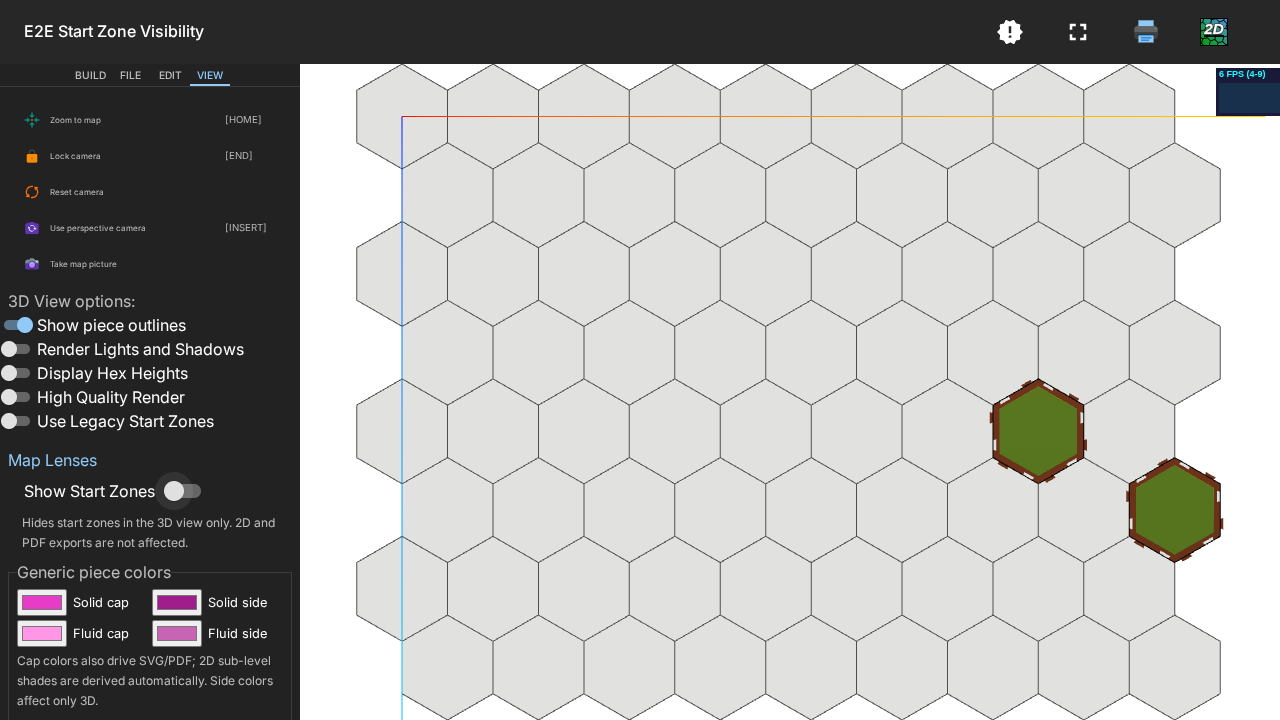
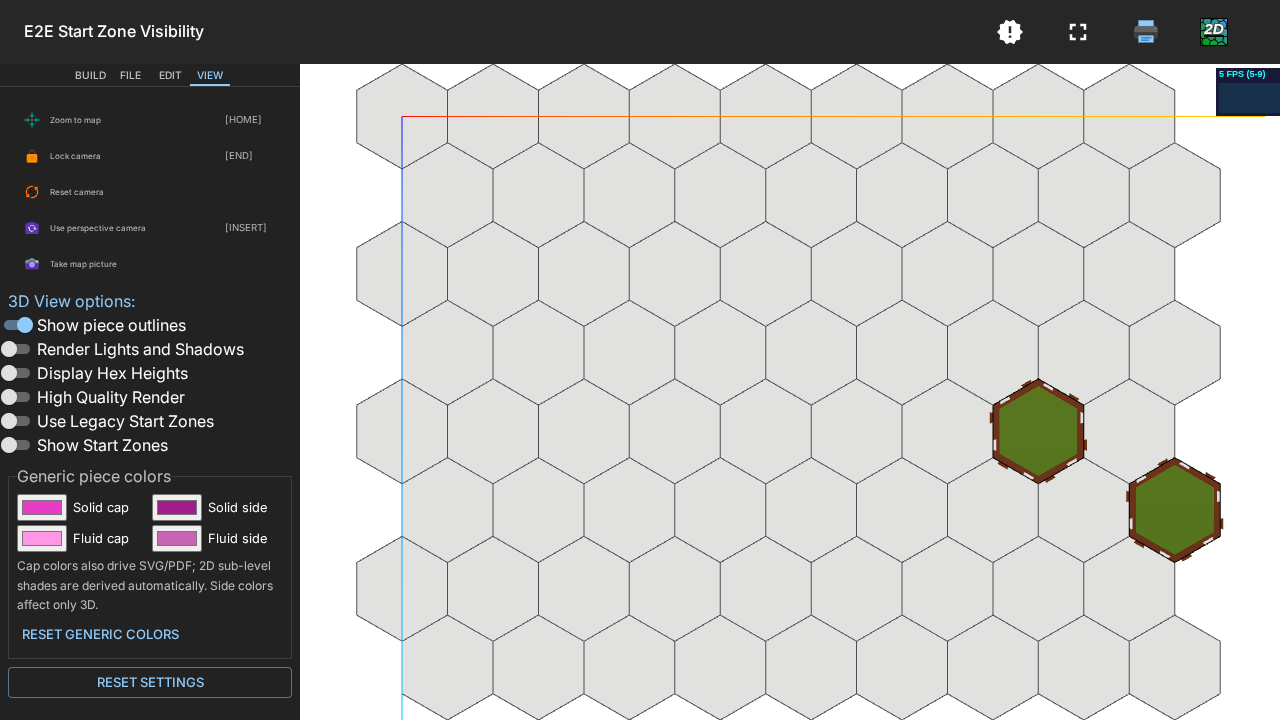
fix: keep start-zone visibility session-only

Changed region(s): [[0.0, 0.6111, 0.2188, 0.9778], [0.0, 0.3972, 0.0938, 0.4278]]

diff --git a/src/controls/ViewControlsTab.tsx b/src/controls/ViewControlsTab.tsx
@@ -36,7 +36,6 @@ import {
 import { getBoardHexesRectangularMapDimensions } from '../utils/map-utils'
 import { ControlTabsListItemButton } from './ControlTabsListItemButton'
 import { HotkeyText } from './HotKeyText'
-import MapLensToggles from './MapLensToggles'
 import { useHotkeyConfig } from './useHotkeyConfig'
 
 export default function ViewControlsTab({
@@ -193,12 +192,7 @@ export default function ViewControlsTab({
         </List>
       </div>
       <Box sx={{ display: 'flex', flexDirection: 'column', gap: 1 }}>
-        {is3DOpen && (
-          <>
-            <ViewPreferencesSwitchForm />
-            <MapLensToggles />
-          </>
-        )}
+        {is3DOpen && <ViewPreferencesSwitchForm />}
         {isPdfOpen && <PdfPreferencesSwitchForm />}
         {is2DOpen && <SVGPreferencesSwitchForm />}
         <GenericTerrainColorsForm />
@@ -337,11 +331,20 @@ const ViewPreferencesSwitchForm = () => {
   const toggleUseLegacyStartZones = useBoundStore(
     (s) => s.toggleUseLegacyStartZones,
   )
+  const isShowStartZones = useBoundStore((s) => s.isShowStartZones)
+  const toggleIsShowStartZones = useBoundStore((s) => s.toggleIsShowStartZones)
   const handleChangeUseLegacyStartZones = (
     event: React.ChangeEvent<HTMLInputElement>,
   ) => {
     toggleUseLegacyStartZones(event.target.checked)
   }
+  const handleChangeShowStartZones = (
+    event: React.ChangeEvent<HTMLInputElement>,
+  ) => {
+    toggleIsShowStartZones(event.target.checked)
+  }
+  const showStartZonesTooltip =
+    'Hides start zones in the 3D view only. 2D and PDF exports are not affected. Turns back on every time you open the app.'
   // const isFrameloopDemand = useBoundStore((s) => s.isFrameloopDemand)
   // const toggleIsFrameloopDemand = useBoundStore((s) => s.toggleIsFrameloopDemand)
   // const handleChangeFrameloopDemand = (event: React.ChangeEvent<HTMLInputElement>) => {
@@ -447,6 +450,18 @@ const ViewPreferencesSwitchForm = () => {
           }
           label="Use Legacy Start Zones"
           title="Enable/disable rendering start zones as circles and with classic colors"
+        />
+        <FormControlLabel
+          control={
+            <Switch
+              size="small"
+              checked={isShowStartZones}
+              onChange={handleChangeShowStartZones}
+              title={showStartZonesTooltip}
+            />
+          }
+          label="Show Start Zones"
+          title={showStartZonesTooltip}
         />
       </FormGroup>
     </FormControl>

diff --git a/src/__tests__/settings.test.ts b/src/__tests__/settings.test.ts
@@ -61,7 +61,6 @@ describe('settings persistence', () => {
     const changed = {
       ...SETTINGS_DEFAULTS,
       isOrthoCam: false,
-      isShowStartZones: false,
       isShowPdfBuriedMarks: true,
       isShow2DExportBuriedMarks: true,
       lightPositions: { key: [1, 2, 3] as [number, number, number] },
@@ -75,7 +74,6 @@ describe('settings persistence', () => {
       v: 1,
       values: {
         isOrthoCam: false,
-        isShowStartZones: false,
         isShowPdfBuriedMarks: true,
         isShow2DExportBuriedMarks: true,
         lightPositions: { key: [1, 2, 3] },
@@ -87,6 +85,17 @@ describe('settings persistence', () => {
     })
     storage.setItem(LS_KEYS.settings, JSON.stringify(serialized))
     expect(loadSettings()).toEqual(changed)
+  })
+
+  it('ignores a stale start-zone visibility setting without rewriting it', () => {
+    const staleSettings = JSON.stringify({
+      v: 1,
+      values: { isShowStartZones: false },
+    })
+    storage.setItem(LS_KEYS.settings, staleSettings)
+
+    expect(loadSettings()).toEqual(SETTINGS_DEFAULTS)
+    expect(values.get(LS_KEYS.settings)).toBe(staleSettings)
   })
 
   it('returns null when all settings equal their defaults', () => {
@@ -293,6 +302,7 @@ describe('settings persistence', () => {
       'currentDialog',
       'isTakingPicture',
       'isCameraDisabled',
+      'isShowStartZones',
       'is2DOpen',
       'isPdfOpen',
       'viewingLevel',

diff --git a/src/__tests__/start-zone-visibility.test.ts b/src/__tests__/start-zone-visibility.test.ts
@@ -3,6 +3,7 @@ import { enqueueSnackbar } from 'notistack'
 import { afterEach, describe, expect, it, vi } from 'vitest'
 import { buildupJsonFileMap } from '../data/buildupMap'
 import { getDraggableSelectionGroup } from '../data/dragMove'
+import { LS_KEYS } from '../local-storage/keys'
 import {
   filterVisiblePieceIDs,
   START_ZONES_HIDDEN_MESSAGE,
@@ -76,6 +77,21 @@ afterEach(() => {
 })
 
 describe('start-zone visibility', () => {
+  it('starts with zones shown when storage contains a stale hidden setting', () => {
+    const staleSettings = JSON.stringify({
+      v: 1,
+      values: { isShowStartZones: false },
+    })
+    vi.stubGlobal('localStorage', {
+      getItem: (key: string) =>
+        key === LS_KEYS.settings ? staleSettings : null,
+      setItem: () => undefined,
+      removeItem: () => undefined,
+    })
+
+    expect(createTestStore().getState().isShowStartZones).toBe(true)
+  })
+
   it('renders placed start zones only while the setting is on', () => {
     expect(
       shouldRenderPlacedPiece({ inventoryID: Pieces.startZone1 }, false),

diff --git a/src/local-storage/settings.ts b/src/local-storage/settings.ts
@@ -25,7 +25,6 @@ export type SettingsValues = {
   isDisplayCapHeights: boolean
   isHideTableTop: boolean
   useLegacyStartZones: boolean
-  isShowStartZones: boolean
   pdfRenderFormat: PdfRenderFormat
   isShowPDFInventory: boolean
   isPdfColorBorders: boolean
@@ -60,7 +59,6 @@ export const SETTINGS_DEFAULTS: SettingsValues = {
   isDisplayCapHeights: false,
   isHideTableTop: false,
   useLegacyStartZones: false,
-  isShowStartZones: true,
   pdfRenderFormat: 'coversheet',
   isShowPDFInventory: true,
   isPdfColorBorders: false,
@@ -159,7 +157,6 @@ const validSettingValue = (
       'isDisplayCapHeights',
       'isHideTableTop',
       'useLegacyStartZones',
-      'isShowStartZones',
       'isShowPDFInventory',
       'isPdfColorBorders',
       'isShowPdfOverlayLayer',

diff --git a/e2e/start-zone-visibility.spec.ts b/e2e/start-zone-visibility.spec.ts
@@ -53,6 +53,7 @@ test('hides placed start zones without affecting selection on show', async ({
     )
     .toEqual([])
 
+  await page.mouse.move(0, 0)
   await page.screenshot({ path: 'docs/evidence/start-zones-hidden-3d.png' })
 
   await clickPiece(page, zone)
@@ -82,4 +83,11 @@ test('hides placed start zones without affecting selection on show', async ({
       page.evaluate(() => window.__TEST__?.snapshot().selectedPieceIDs),
     )
     .toEqual([zone])
+
+  await page.reload()
+  await waitForAppReady(page)
+  await page.locator('#simple-tab-3').click()
+  await expect(
+    page.getByRole('checkbox', { name: 'Show Start Zones' }),
+  ).toBeChecked()
 })

diff --git a/src/controls/EditControlsTab.tsx b/src/controls/EditControlsTab.tsx
@@ -132,7 +132,6 @@ export const EditControlsTab = () => {
           ? `${remainingCount} remaining`
           : ''}
       </div> */}
-      {/* <MapLensToggles /> */}
       {/* <LocalStorageList /> */}
       <List>
         {/* OPEN EDIT MAP DETAILS DIALOG */}

diff --git a/src/controls/BuildControlsTab.tsx b/src/controls/BuildControlsTab.tsx
@@ -71,7 +71,6 @@ export const BuildControlsTab = () => {
       </div> */}
       <PieceSizeSelect />
       <RotationSelect />
-      {/* <MapLensToggles /> */}
       <ViewingLevelInput />
 
       {/* <LocalStorageList /> */}

diff --git a/src/store/ui-slice.ts b/src/store/ui-slice.ts
@@ -189,6 +189,7 @@ const createUISlice: StateCreator<
   UISlice
 > = (set) => ({
   ...loadSettings(),
+  isShowStartZones: true,
   selectedPieceIDs: [],
   rotationPivot: null,
   toggleSelectedPieceID: (

diff --git a/src/__tests__/README.md b/src/__tests__/README.md
@@ -37,7 +37,7 @@ a couple of seconds. Rendering (3D, SVG, PDF) is not covered yet.
 | `map-storage.test.ts` | Old/new saved-map formats, separate portraits, and inline-portrait migration. |
 | `map-autosave.test.ts` | Debounced map writes, lifecycle flushes, hold/release gating, and failure retries. |
 | `map-portrait.test.ts` | Pure downscale dimensions and map identity through a JSONCrush share-link round trip. |
-| `settings.test.ts` | Versioned settings defaults, migration, debounced persistence, and store-state classification. |
+| `settings.test.ts` | Versioned settings defaults, migration, debounced persistence, stale session-only visibility settings, and store-state classification. |
 | `start-zone-visibility.test.ts` | Start-zone 3D visibility, selection filtering and pivot cleanup, hidden drag-group exclusion, map-load filtering, and undo selection restoration while hidden. |
 | `tile-marks.test.ts` | Buried-status mark selection, letter/mark text composition, excluded piece families, and integration with the small buried-status board fixture. |
 | `pdf-buried-mark-position.test.ts` | PDF-only mark offsets scale with the registered Inter glyph advances and leave marks-only tiles unshifted. |
